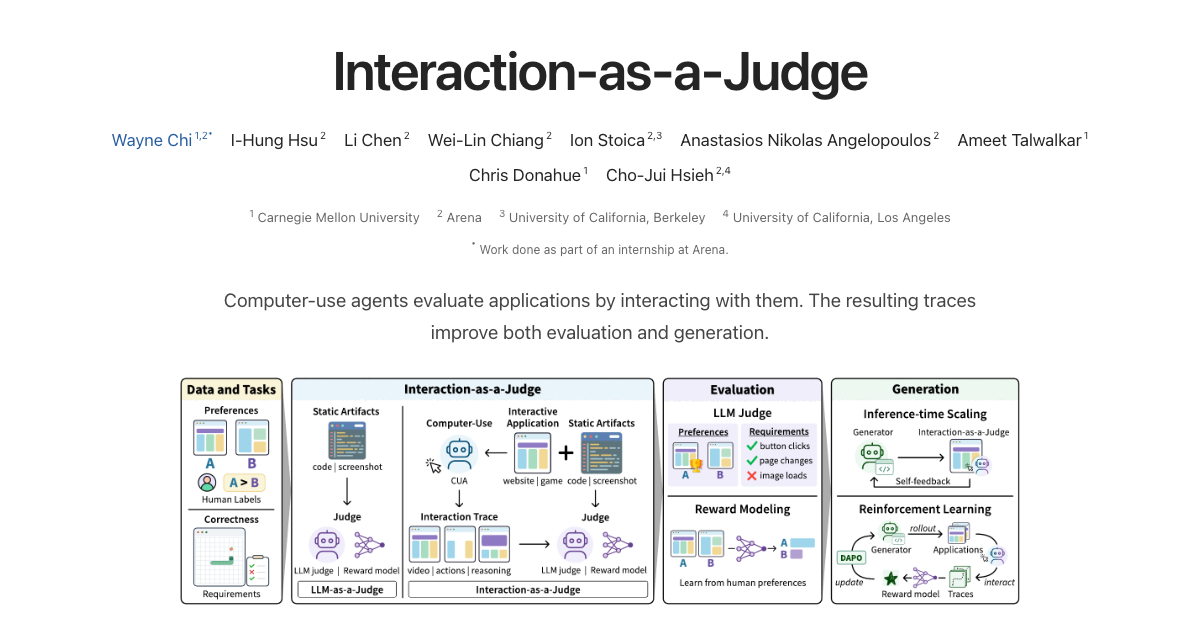
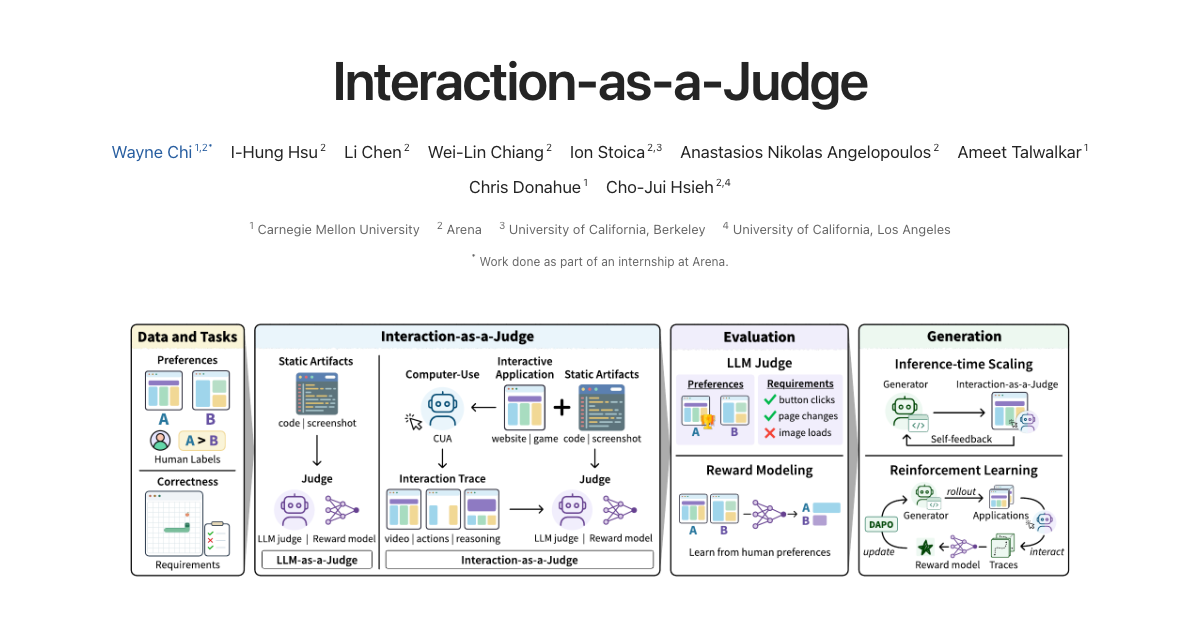
Present the paper's four core results with original figures

diff --git a/index.html b/index.html
@@ -60,11 +60,6 @@
         </nav>
       </header>
 
-      <p class="summary">
-        Computer-use agents evaluate applications by interacting with them. The
-        resulting traces improve both evaluation and generation.
-      </p>
-
       <figure>
         <a
           href="assets/figures/overview.png"
@@ -116,44 +111,123 @@
         </p>
       </section>
 
-      <section aria-labelledby="results-title">
-        <h2 id="results-title">Key results</h2>
-        <table>
-          <caption class="visually-hidden">
-            Comparison of code-only evaluation and Interaction-as-a-Judge
-          </caption>
-          <thead>
-            <tr>
-              <th scope="col">Task</th>
-              <th scope="col">Code only</th>
-              <th scope="col">With interaction</th>
-            </tr>
-          </thead>
-          <tbody>
-            <tr>
-              <th scope="row">Human preference alignment</th>
-              <td>65.6%</td>
-              <td><strong>69.1%</strong></td>
-            </tr>
-            <tr>
-              <th scope="row">Requirement verification</th>
-              <td>77.0%</td>
-              <td><strong>81.6%</strong></td>
-            </tr>
-            <tr>
-              <th scope="row">Repair within five attempts</th>
-              <td>55.4%</td>
-              <td><strong>75.5%</strong></td>
-            </tr>
-          </tbody>
-        </table>
-        <p class="note">
-          Preference results use Gemini 3 Flash. Verification uses GPT 5.6 Sol;
-          repairs are made by GPT 5.6 Luna and evaluated by Sol with
-          interaction. Preference gains depend on the judge: GPT 5.6 Luna showed
-          no significant improvement. See the paper for full comparisons and
-          training results.
+      <section aria-labelledby="preferences-title">
+        <h2 id="preferences-title">Human preferences</h2>
+        <p>
+          With iterative computer use, Gemini 3 Flash’s agreement with human
+          preferences improves from <strong>65.6% to 69.1%</strong>. A trained
+          reward model reaches <strong>70.8%</strong>, outperforming the
+          off-the-shelf LLM judges. Interaction traces alone also support
+          reward-model training without access to code.
         </p>
+        <figure>
+          <a
+            href="assets/figures/human-preferences.png"
+            aria-label="View the full-size human preference results"
+          >
+            <img
+              src="assets/figures/human-preferences.png"
+              width="2400"
+              height="522"
+              loading="lazy"
+              alt="Preference accuracy for code, code plus screenshot, and three interaction strategies. Iterative interaction reaches 69.1% with Gemini 3 Flash, 70.8% with a full-code reward model, and 69.0% with an interaction-only reward model."
+            />
+          </a>
+          <figcaption>
+            Human preference alignment across LLM judges and reward models.
+            GPT 5.6 Luna shows no statistically significant improvement from
+            interaction.
+          </figcaption>
+        </figure>
+      </section>
+
+      <section aria-labelledby="correctness-title">
+        <h2 id="correctness-title">Correctness verification</h2>
+        <p>
+          With GPT 5.6 Sol, interaction improves balanced requirement-verification
+          accuracy from <strong>77.0% to 81.6%</strong>. The largest gain comes
+          from identifying broken requirements: <strong>63.0% to 71.1%</strong>.
+          Verification improves as the computer-use model becomes more capable.
+        </p>
+        <figure>
+          <a
+            href="assets/figures/correctness-verification.png"
+            aria-label="View the full-size correctness verification results"
+          >
+            <img
+              src="assets/figures/correctness-verification.png"
+              width="2400"
+              height="655"
+              loading="lazy"
+              alt="Requirement verification and discovery across GPT 5.6 Luna, Terra, and Sol. Interaction improves verification for every model; broken-requirement accuracy rises from 65.2% with Luna to 71.1% with Sol. Discovery recall remains low for both approaches."
+            />
+          </a>
+          <figcaption>
+            Verification of broken and working requirements, their unweighted
+            average, and discovery of broken requirements. Requirement discovery
+            remains challenging for both approaches.
+          </figcaption>
+        </figure>
+      </section>
+
+      <section aria-labelledby="inference-title">
+        <h2 id="inference-title">Inference-time scaling</h2>
+        <p>
+          Interaction-based self-feedback repairs <strong>75.5%</strong> of
+          initially broken requirements within five attempts, compared with
+          <strong>55.4%</strong> for code-only self-feedback. The improvement
+          persists under both interaction-based and code-only evaluation, with a
+          smaller gap between self-reported and externally evaluated success.
+        </p>
+        <figure>
+          <a
+            href="assets/figures/inference-time-scaling.png"
+            aria-label="View the full-size inference-time scaling results"
+          >
+            <img
+              src="assets/figures/inference-time-scaling.png"
+              width="2400"
+              height="622"
+              loading="lazy"
+              alt="Repair success over five iterations using code-only or interaction-based self-feedback. Sol’s interaction evaluation finds 75.5% repaired with interaction versus 55.4% with code only; its code evaluation finds 77.4% versus 63.8%. Interaction also reduces the self-verification gap."
+            />
+          </a>
+          <figcaption>
+            GPT 5.6 Luna repairs and self-verifies; GPT 5.6 Sol evaluates the
+            repairs. The 75.5% and 55.4% results use Sol’s interaction-based
+            evaluation.
+          </figcaption>
+        </figure>
+      </section>
+
+      <section aria-labelledby="training-title">
+        <h2 id="training-title">Training</h2>
+        <p>
+          Reinforcement learning with an interaction-only reward model improves
+          Qwen-3.5-9B’s win rate over the base model by
+          <strong>6.7 percentage points</strong>. Compared with a code-only
+          reward signal, it generates <strong>35.7% less code</strong> and
+          increases build success from <strong>81.3% to 88.5%</strong>.
+        </p>
+        <figure>
+          <a
+            href="assets/figures/training.png"
+            aria-label="View the full-size training results"
+          >
+            <img
+              src="assets/figures/training.png"
+              width="2400"
+              height="464"
+              loading="lazy"
+              alt="Training curves compare code-only, interaction-only, and build-only reward signals. Interaction-based training improves build success and reduces generated code compared with code-only rewards, while an auto-rubrics judge measures a 6.72 percentage-point win-rate gain over the base model."
+            />
+          </a>
+          <figcaption>
+            Reward scores, build success, code length, and quality after training.
+            Win rates use an auto-rubrics judge on successful builds and renders.
+            Training covers six non-game categories.
+          </figcaption>
+        </figure>
       </section>
 
       <section aria-labelledby="datasets-title">

diff --git a/style.css b/style.css
@@ -99,13 +99,8 @@ sup {
 .paper-links a {
   padding: 5px 0;
 }
-.summary {
-  max-width: 690px;
-  margin: 43px auto 27px;
-  text-align: center;
-  font-size: 18px;
-  line-height: 1.7;
-  color: #454545;
+.paper-header + figure {
+  margin-top: 40px;
 }
 figure {
   margin: 0 0 42px;
@@ -129,47 +124,15 @@ figcaption {
 section {
   margin-top: 39px;
 }
+section figure {
+  margin: 24px 0 0;
+}
 h2 {
   margin: 0 0 17px;
   font-size: 23px;
   line-height: 1.4;
   letter-spacing: -0.4px;
   font-weight: 600;
-}
-table {
-  width: 100%;
-  border-collapse: collapse;
-  font-size: 15px;
-  line-height: 1.5;
-}
-th,
-td {
-  padding: 13px 12px;
-  border-bottom: 1px solid #e4e4e4;
-}
-th {
-  font-weight: 400;
-  text-align: left;
-}
-thead th {
-  padding-top: 0;
-  font-size: 13px;
-  color: #666;
-}
-th:first-child {
-  padding-left: 0;
-}
-th:last-child,
-td:last-child {
-  padding-right: 0;
-}
-td,
-thead th:not(:first-child) {
-  text-align: right;
-  font-variant-numeric: tabular-nums;
-}
-td {
-  white-space: nowrap;
 }
 .note {
   margin-top: 15px;
@@ -199,16 +162,6 @@ pre {
 code {
   font-family: ui-monospace, "SFMono-Regular", Consolas, monospace;
 }
-.visually-hidden {
-  position: absolute;
-  width: 1px;
-  height: 1px;
-  padding: 0;
-  overflow: hidden;
-  clip: rect(0, 0, 0, 0);
-  white-space: nowrap;
-  border: 0;
-}
 
 @media (max-width: 600px) {
   main {
@@ -235,10 +188,8 @@ code {
     margin-top: 20px;
     font-size: 14px;
   }
-  .summary {
+  .paper-header + figure {
     margin-top: 31px;
-    margin-bottom: 24px;
-    font-size: 16px;
   }
   figure {
     margin-bottom: 31px;
@@ -259,15 +210,9 @@ code {
     font-size: 15px;
     line-height: 1.8;
   }
-  table {
-    font-size: 13px;
-  }
-  th,
-  td {
-    padding: 11px 7px;
-  }
-  thead th {
-    font-size: 12px;
+  section figure {
+    margin-top: 20px;
+    margin-bottom: 0;
   }
   .note {
     font-size: 12px;
@@ -291,7 +236,6 @@ code {
     display: none;
   }
   figure,
-  table,
   pre {
     break-inside: avoid;
   }

diff --git a/SOURCES.md b/SOURCES.md
@@ -20,6 +20,10 @@ Wayne Chi: 1, 2; I-Hung Hsu: 2; Li Chen: 2; Wei-Lin Chiang: 2; Ion Stoica: 2, 3;
 | Preference and correctness results     | `sections/04_setting1_arena.tex`      |
 | Repairs and reinforcement learning     | `sections/05_setting2_complaints.tex` |
 | Framework figure                       | `figures/fig_main.pdf`                |
+| Human preference figure                | `figures/webdev_overall_comparison.pdf` |
+| Correctness verification figure         | `figures/correctness_scaling.pdf`     |
+| Inference-time scaling figure           | `figures/iterative_solving_v3.pdf`    |
+| Training figure                         | `figures/training_comparison.pdf`    |
 
 ## Result context
 
@@ -30,6 +34,6 @@ Wayne Chi: 1, 2; I-Hung Hsu: 2; Li Chen: 2; Wei-Lin Chiang: 2; Ion Stoica: 2, 3;
 - Training: **6.7 percentage-point** win-rate gain over the base model, conditional on successful builds, using an auto-rubrics judge. **35.7%** less generated code and **7.2 percentage-point** fewer build failures compare against a code-only reward signal. Training excludes games.
 - Dataset totals: **6,858** pairs across seven categories; **222** application versions, **412** requirements (**323** broken and **89** working), **67** traces, **828** user turns.
 
-The website presents the three main evaluation and repair results in a table. The overview figure is reproduced directly from the paper and links to the full-size image.
+The website presents the paper’s four main results in separate sections: human preferences, correctness verification, inference-time scaling, and training. Each includes a concise explanation and the corresponding original paper figure, rasterized from PDF at 2,400 pixels wide. All four result figures and the overview link to their full-size images.
 
 No public arXiv identifier, code URL, or dataset URL was present in the manuscript source. The site serves the local manuscript and does not fabricate release links or publication status.

diff --git a/README.md b/README.md
@@ -12,10 +12,10 @@ Open **http://localhost:8000**. The preview command uses Python 3. Any static we
 
 ## Files
 
-- `index.html`: authors, abstract, key results, datasets, and citation.
+- `index.html`: authors, abstract, four core results with figures, datasets, and citation.
 - `style.css`: typography and responsive layout.
 - `assets/interaction-as-a-judge.pdf`: the paper.
-- `assets/figures/overview.png`: the original framework figure.
+- `assets/figures/`: the original framework and four result figures from the paper.
 - `assets/citation.bib`: downloadable BibTeX.
 
 Research content comes from the sibling `Interaction-as-a-Judge-Arxiv-` manuscript. The author affiliations and downloadable PDF match the October 12, 2026 version. See [SOURCES.md](SOURCES.md) for provenance.
